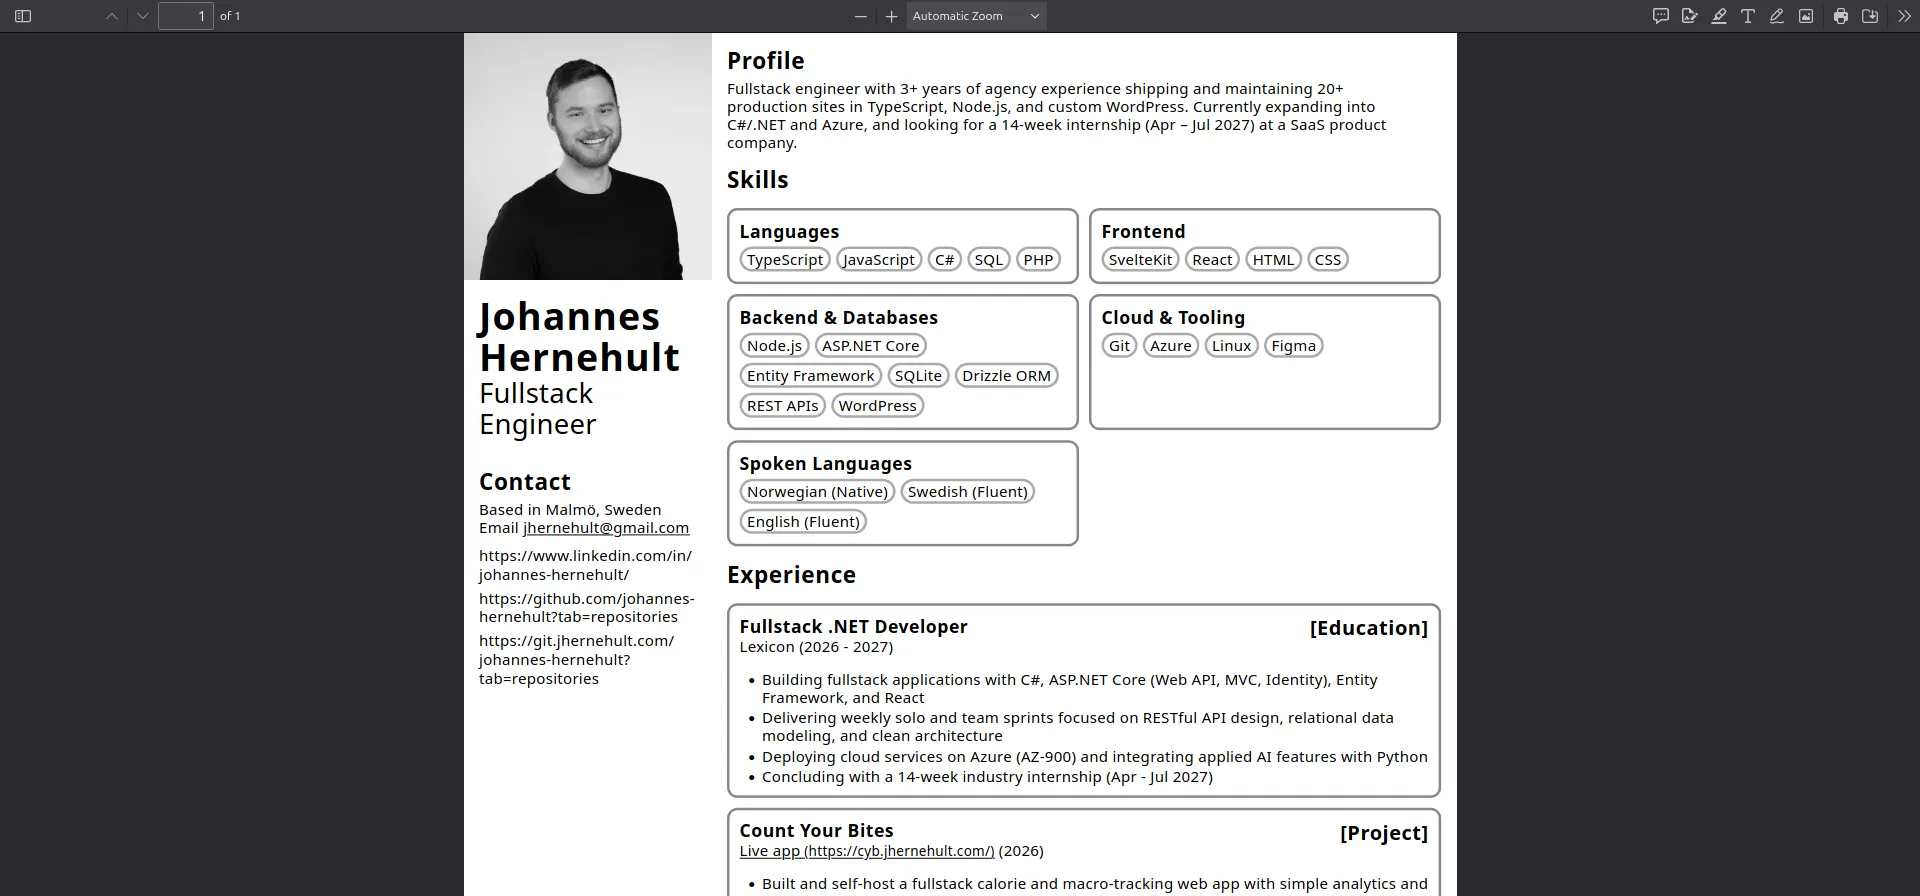
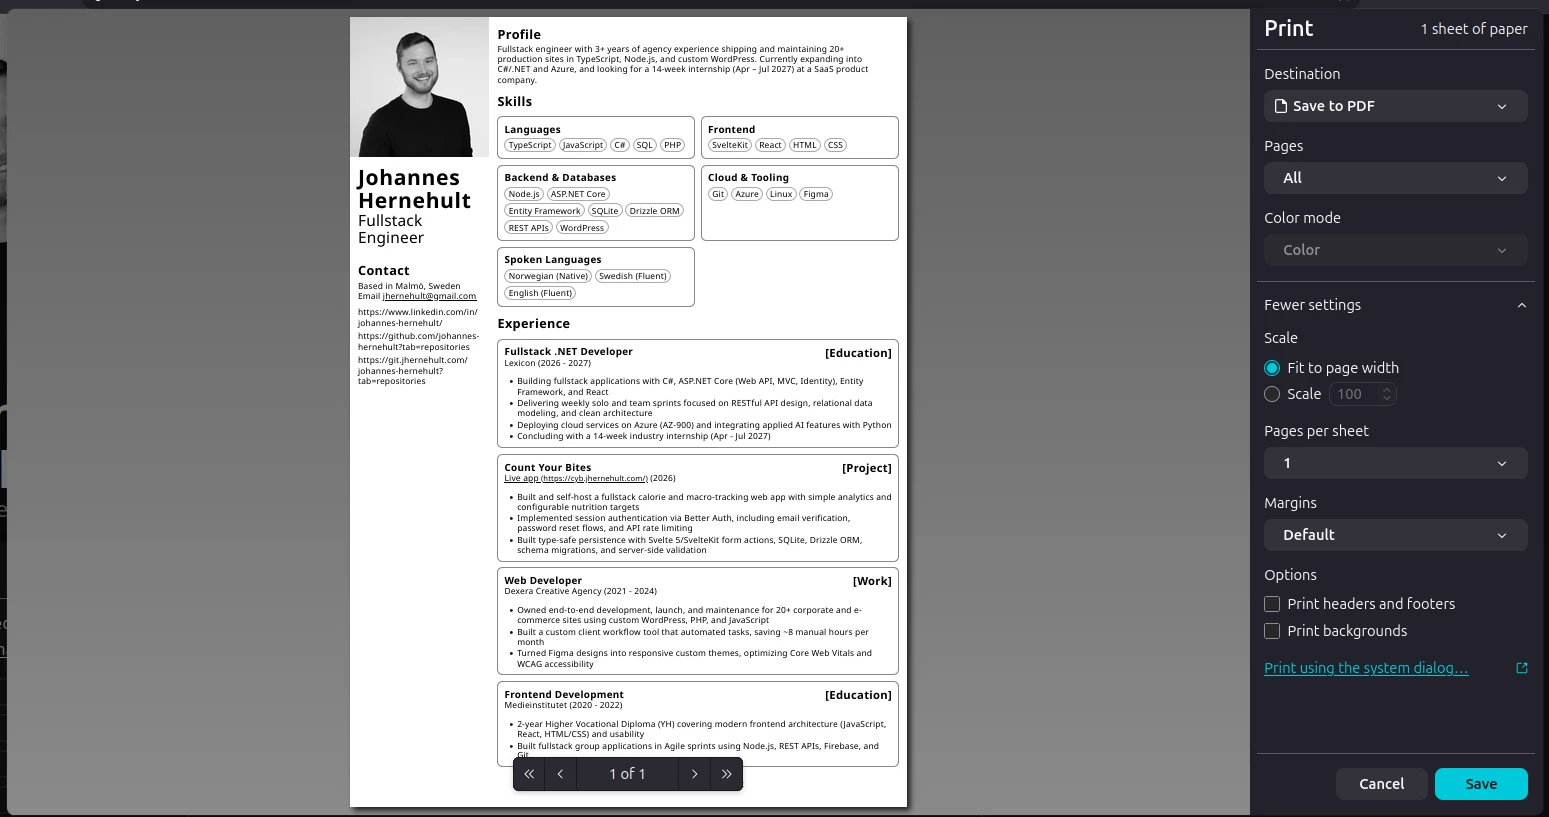
chore(projects): add real screenshots and update gallery metadata for Portfolio, CV, and TooDoo

diff --git a/src/features/shared/data/projects.ts b/src/features/shared/data/projects.ts
@@ -37,7 +37,7 @@ export const PROJECTS = [
         altText: "Delete an entry modal",
       },
       {
-        order: 2,
+        order: 4,
         url: "/images/projects/cyb-settings-user-profile.webp",
         altText: "User profile section of settings page",
       },
@@ -61,8 +61,8 @@ export const PROJECTS = [
       "Responsive developer portfolio built with React, TypeScript, CSS Modules, and fluid grid layouts.",
     tags: ["React", "TypeScript", "CSS Modules", "Responsive Design"],
     cardSize: "default", // Spans 4 columns, 1 row
-    url: "https://placehold.co/800x500/1e293b/ffffff?text=.",
-    altText: "Screenshot of the Portfolio Website",
+    url: "/images/projects/portfolio-hero.webp",
+    altText: "Cover image of Portfolio Website",
     overview: [
       "When architecting responsive interfaces, fluid grid tracks and custom CSS properties allow components to adapt seamlessly across viewport breakpoints without brittle media-query overrides. By decoupling design tokens from structural markup, teams can iterate on typography, spacing scales, and accessible focus states while maintaining zero layout shift during asynchronous hydration.",
       "Refactoring legacy state management into modular hooks eliminates prop-drilling bottlenecks and keeps render cycles predictable across deeply nested component trees.",
@@ -70,8 +70,43 @@ export const PROJECTS = [
     images: [
       {
         order: 1,
-        url: "https://placehold.co/800x500/1e293b/ffffff?text=.",
-        altText: "Cover image for portfolio project",
+        url: "/images/projects/portfolio-hero.webp",
+        altText: "Hero section",
+      },
+      {
+        order: 2,
+        url: "/images/projects/portfolio-projects.webp",
+        altText: "Projects section",
+      },
+      {
+        order: 3,
+        url: "/images/projects/portfolio-experiences.webp",
+        altText: "Experiences section",
+      },
+      {
+        order: 4,
+        url: "/images/projects/portfolio-about.webp",
+        altText: "About section",
+      },
+      {
+        order: 5,
+        url: "/images/projects/portfolio-contact.webp",
+        altText: "Contact section",
+      },
+      {
+        order: 6,
+        url: "/images/projects/portfolio-project-hero.webp",
+        altText: "Project hero section",
+      },
+      {
+        order: 7,
+        url: "/images/projects/portfolio-project-gallery.webp",
+        altText: "Project gallery section",
+      },
+      {
+        order: 8,
+        url: "/images/projects/portfolio-project-contact.webp",
+        altText: "Project contact section",
       },
     ],
     links: [
@@ -101,8 +136,8 @@ export const PROJECTS = [
       "Kamal",
     ],
     cardSize: "default", // Spans 4 columns, 1 row
-    url: "/images/projects/cv-cover.webp",
-    altText: "Preview of the CV Website",
+    url: "/images/projects/cv-profile-skills.webp",
+    altText: "Cover image of CV website",
     overview: [
       "Built as a zero-dependency static site using semantic HTML, a single token-driven vanilla stylesheet, and progressive-enhancement JavaScript—no build step required. Dedicated @page and @media print rules pair with a one-click download button to format the page cleanly as a printable A4 resume.",
       "Lightweight scripts add experience sorting (by newest, oldest, or type) and client-side contact obfuscation with graceful <noscript> fallbacks. The site runs in an unprivileged Alpine Nginx container with asset caching, a /up healthcheck endpoint, and automated SSL deployment via Kamal.",
@@ -110,13 +145,18 @@ export const PROJECTS = [
     images: [
       {
         order: 1,
-        url: "/images/projects/cv-full.webp",
-        altText: "CV website in full",
+        url: "/images/projects/cv-profile-skills.webp",
+        altText: "Profile and skills section",
       },
       {
         order: 2,
+        url: "/images/projects/cv-experience.webp",
+        altText: "Experience section",
+      },
+      {
+        order: 3,
         url: "/images/projects/cv-print.webp",
-        altText: "Print of CV website",
+        altText: "Print / save as PDF preview",
       },
     ],
     links: [
@@ -144,7 +184,7 @@ export const PROJECTS = [
       "Clean Architecture",
     ],
     cardSize: "wide", // Spans 6 columns
-    url: "https://placehold.co/800x500/1e293b/ffffff?text=.",
+    url: "/images/projects/toodoo.png",
     altText: "Terminal window running the TooDoo C# console task manager",
     overview: [
       "TooDoo is a terminal task manager built with C# and .NET 10 for tracking tasks by title, due date, and project. It features separate to-do and completed lists, sorting by due date or project, short ambiguity-free 4-character task IDs, and an ANSI color-coded table renderer.",
@@ -153,13 +193,8 @@ export const PROJECTS = [
     images: [
       {
         order: 1,
-        url: "https://placehold.co/800x500/1e293b/ffffff?text=.",
-        altText: "Cover image for TooDoo console task manager",
-      },
-      {
-        order: 2,
-        url: "https://placehold.co/800x500/1e293b/ffffff?text=.",
-        altText: "2 Cover image for TooDoo console task manager",
+        url: "/images/projects/toodoo.png",
+        altText: "Main menu",
       },
     ],
     links: [
